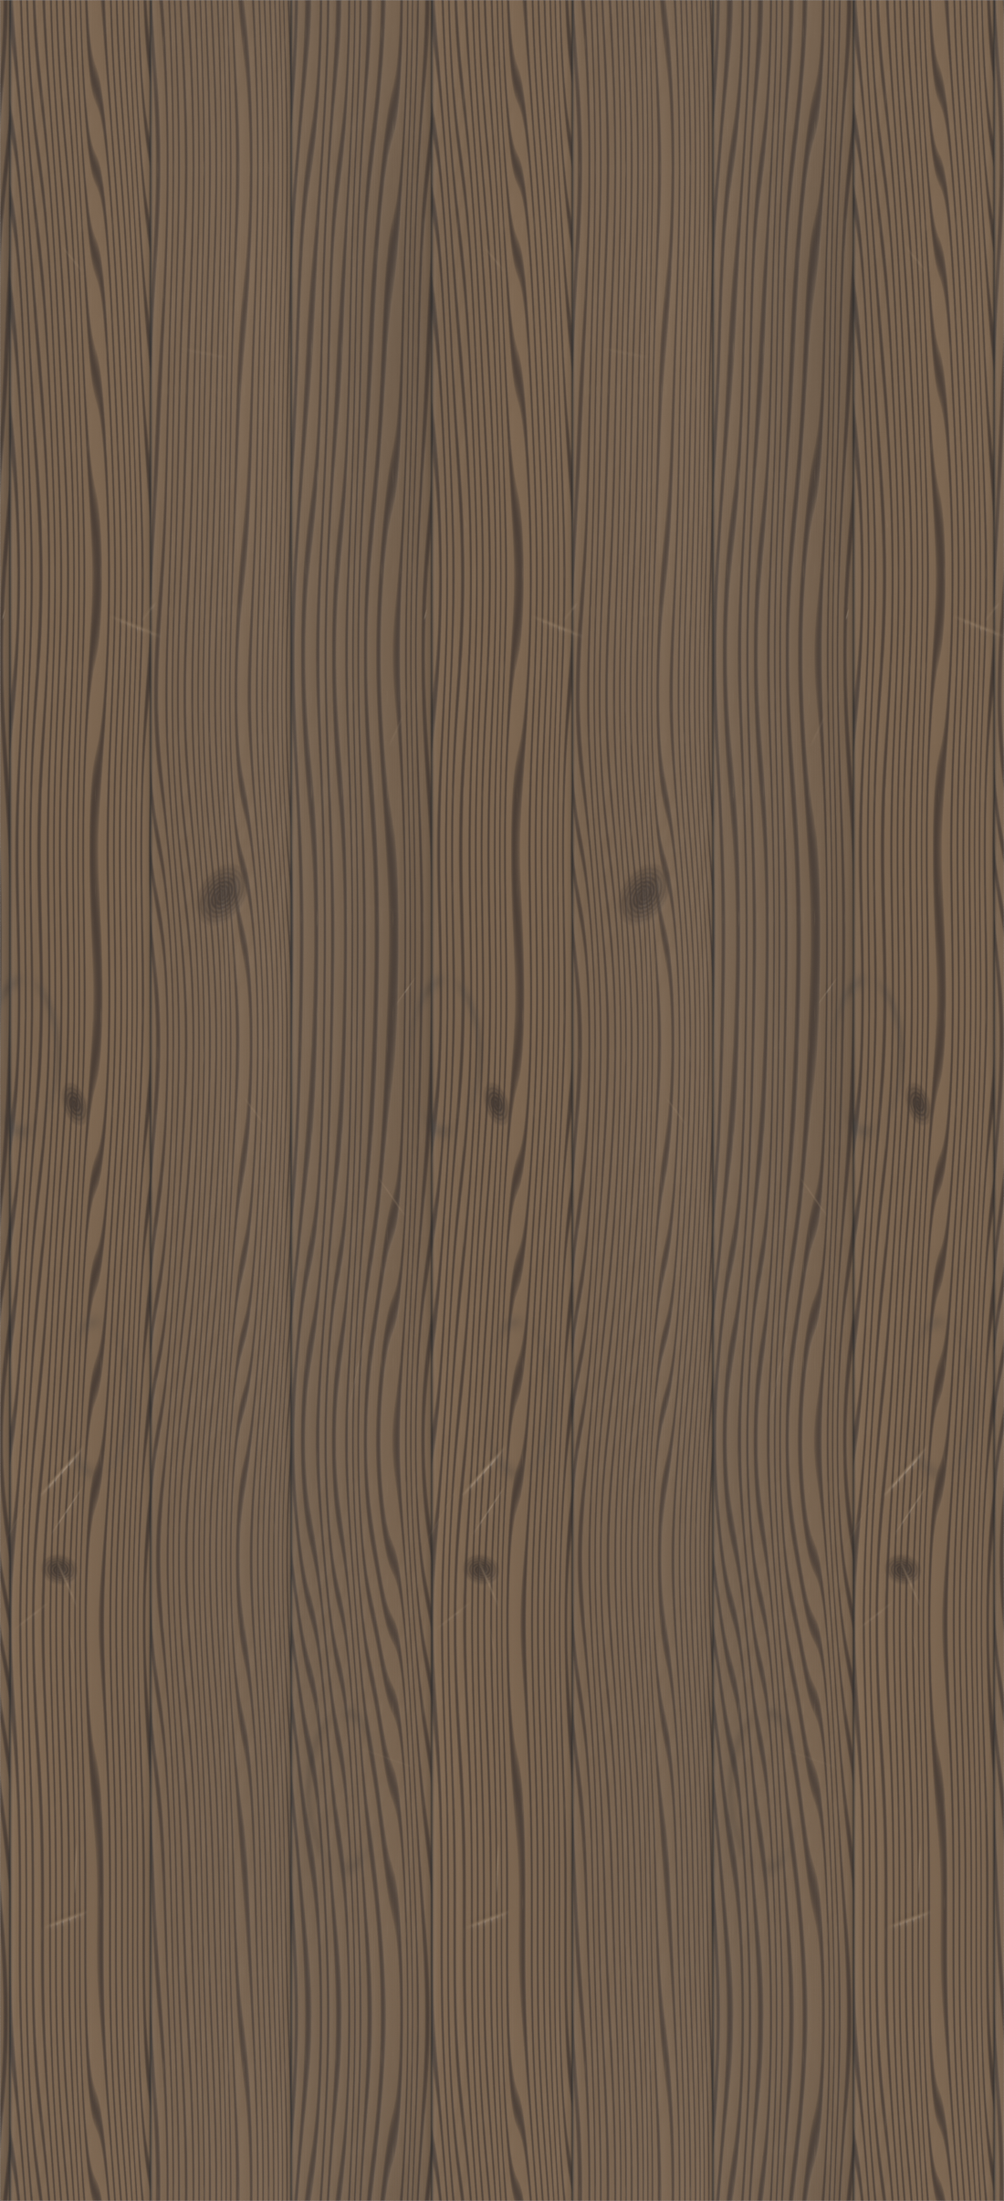
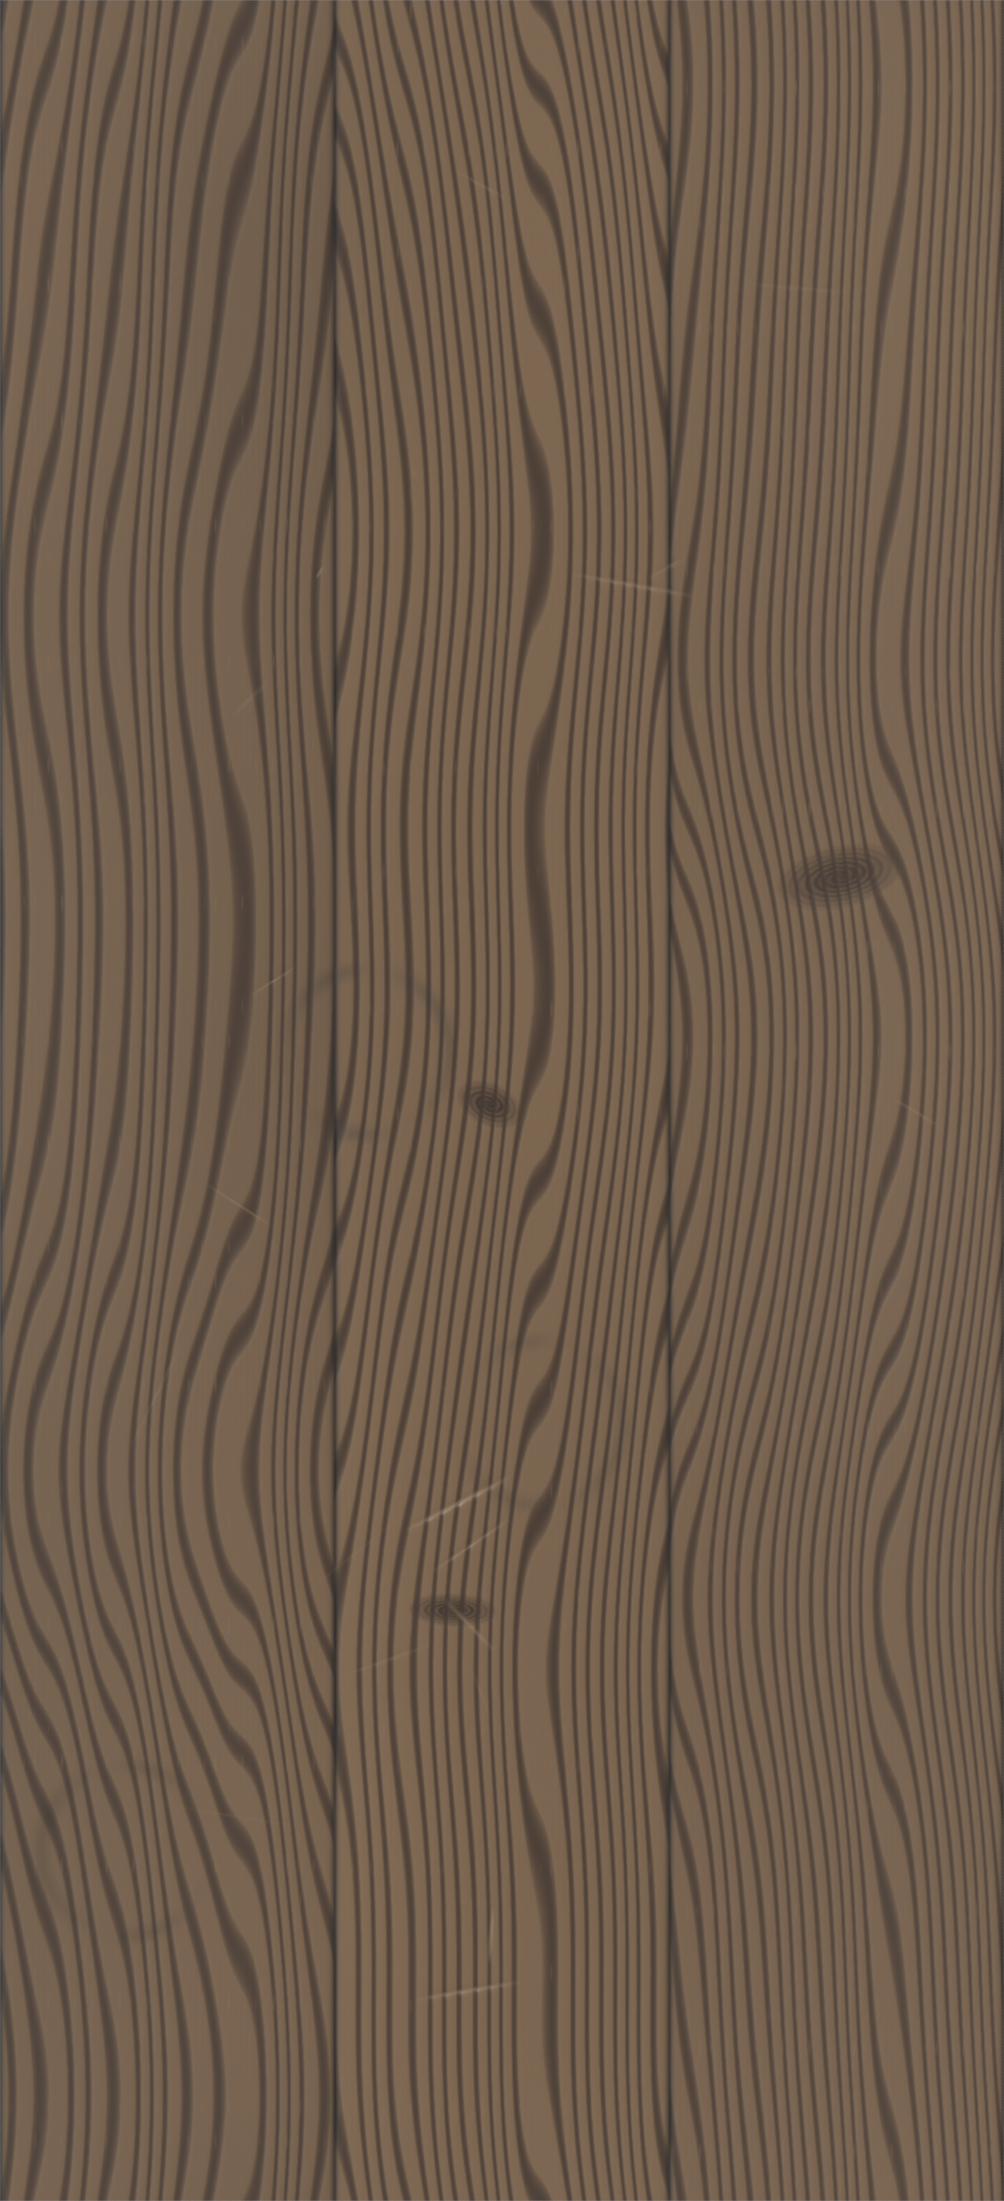
A feeling arriving is an object landing, not a word in blue script
The emotional row's first sentence is that a gesture on one device becomes a
sensation on the other. 08_state_propagating showed a message that happened to
say "hold". Three separate mechanisms, all found:

**Two of the three things the far phone sent arrived as blank paper.** A feeling
was being wrapped in FoldedNote, whose resting face is fold frame 0000 — a
square-cornered blank cream slab — and nothing ever taps it open, so the row was
that slab for ever. A thrown object is not a folded note; there is nothing to
unfold. It is excluded now, asked of the registry rather than of a list.

**The one that did paint read as a message.** The feeling's name was set in the
author's own hand at 19 points, which is byte for byte the call the message body
makes, in the same ink, on the same lined stock with the same tear and the same
timestamp under it. The object is the row now and the word is a caption under it
in the small hand.

**And the object was a smudge beside it.** `size` was the size of the square the
thing was rendered into, not of the thing: a candle's ink fills 27 per cent of its
frame and a paper crane's 85, so one number asked for a candle 29 points tall and
a crane 82. pack_assets measures every object's ink at pack time — 26 of them,
18 per cent at the tightest and 85 at the widest — and `size` means the object.

**Also: a pending check was destroying evidence of a run that happened.** The
[…]

diff --git a/app/test/reliability_test.dart b/app/test/reliability_test.dart
@@ -31,6 +31,21 @@ class Capability {
   Map<String, dynamic> toJson() => {'ok': ok, 'detail': detail};
 }
 
+/// Whether both daemons are actually answering, rather than whether they once wrote an address.
+Future<bool> _nodesAnswering() async {
+  for (final n in const ['a', 'b']) {
+    if (!await File('../toolchain/ts/$n/address').exists()) return false;
+    try {
+      final r = await Process.run('../toolchain/ts/bin/tailscale',
+          ['--socket=../toolchain/ts/$n/tailscaled.sock', 'status', '--json']);
+      if (r.exitCode != 0) return false;
+    } catch (_) {
+      return false;
+    }
+  }
+  return true;
+}
+
 void main() {
   test('reliability report over the local transport', () async {
     final dir = await Directory.systemTemp.createTemp('reliability-');
@@ -231,6 +246,13 @@ void main() {
     };
     final out = File('../evidence/reliability.json');
     await out.parent.create(recursive: true);
+    // The local run's results are its own, but the tailnet block is not its to delete. It was
+    // deleting it: this half rewrites the file whole, so a tailnet run that had happened was gone
+    // before the tailnet half of this file got to decide whether to keep it.
+    if (await out.exists()) {
+      final was = jsonDecode(await out.readAsString());
+      if (was is Map && was['tailscale'] != null) report['tailscale'] = was['tailscale'];
+    }
     await out.writeAsString(const JsonEncoder.withIndent(' ').convert(report));
 
     await clientT.stop();
@@ -270,13 +292,34 @@ void main() {
       await report.writeAsString(const JsonEncoder.withIndent(' ').convert(existing));
     }
 
-    if (!await a.exists() || !await b.exists()) {
+    // Asked of the daemon, not of the filesystem: the address files outlive the daemons, and a
+    // node that is not answering is the same situation as a node that was never brought up.
+    if (!await _nodesAnswering()) {
+      // A pending check does not overwrite a run that happened; see the same guard in
+      // coldstart_test.dart. This session's real tailnet run was destroyed by one once.
+      if (await report.exists()) {
+        final was = jsonDecode(await report.readAsString());
+        if (was is Map && (was['tailscale'] as Map?)?['status'] == 'ran') {
+          (was['tailscale'] as Map)['later_check'] = {
+            'status': 'pending',
+            'why': 'the nodes were not answering when this was re-run; the run above stands',
+            'checked_at': DateTime.now().toUtc().toIso8601String(),
+          };
+          await report.writeAsString(const JsonEncoder.withIndent(' ').convert(was));
+          return;
+        }
+      }
+      final everBroughtUp = await a.exists() && await b.exists();
       await record({
         'status': 'pending',
-        'why': 'no TS_AUTHKEY was supplied in this session, so the two tailnet nodes were never '
-            'brought up and nothing over the tailnet has been checked',
-        'how_to_run': 'TS_AUTHKEY=tskey-auth-… bash tools/tailscale/up.sh, then flutter test '
-            'test/reliability_test.dart',
+        'why': everBroughtUp
+            ? 'the two tailnet nodes were brought up in this session and are not answering now — '
+                'a daemon that has been reaped, or a container that restarted under them. Their '
+                'state survives in toolchain/ts/{a,b}/state, so they come back without a new key.'
+            : 'no TS_AUTHKEY was supplied in this session, so the two tailnet nodes were never '
+                'brought up and nothing over the tailnet has been checked',
+        'how_to_run': 'bash tools/tailscale/up.sh (TS_AUTHKEY only if the state directories are '
+            'gone too), then flutter test test/reliability_test.dart',
         'what_is_still_checked': 'the protocol, the pairing and every fault run above, over the '
             'local transport — the two transports differ only in which address the host binds',
         'checked_at': DateTime.now().toUtc().toIso8601String(),

diff --git a/app/test/coldstart_test.dart b/app/test/coldstart_test.dart
@@ -49,16 +49,57 @@ Map<String, dynamic> _self(Map<String, dynamic> status) {
   };
 }
 
+/// Whether both daemons are actually answering, rather than whether they once wrote an address.
+Future<bool> _nodesAnswering() async {
+  for (final n in const ['a', 'b']) {
+    if (!await File('../toolchain/ts/$n/address').exists()) return false;
+    try {
+      final r = await Process.run('../toolchain/ts/bin/tailscale',
+          ['--socket=../toolchain/ts/$n/tailscaled.sock', 'status', '--json']);
+      if (r.exitCode != 0) return false;
+    } catch (_) {
+      return false;
+    }
+  }
+  return true;
+}
+
 void main() {
   test('cold start over the tailnet: four events, both directions, both spines agreeing', () async {
     final aFile = File('../toolchain/ts/a/address');
     final bFile = File('../toolchain/ts/b/address');
-    if (!await aFile.exists() || !await bFile.exists()) {
-      await File(_out).writeAsString(const JsonEncoder.withIndent(' ').convert({
+    // Asked of the daemon, not of the filesystem. The address files survive a container restart
+    // and the daemons do not, and a test that then fails on `would not report its status` reads as
+    // a defect in the app. The brief's rule for a tailnet that is not there is pending: not
+    // passing, not failing.
+    if (!await _nodesAnswering()) {
+      // A pending check does not overwrite a run that happened.
+      //
+      // It did once, and the loss was total: the tailnet cold start of this very session — two
+      // node keys, four events crossing in both directions, a direct path — was replaced by a
+      // sentence saying the nodes were not up, because a daemon had been reaped between the run
+      // and the next `flutter test`. Evidence of something that occurred is not invalidated by a
+      // later session being unable to repeat it; it is dated and kept.
+      final out = File(_out);
+      if (await out.exists()) {
+        final was = jsonDecode(await out.readAsString());
+        if (was is Map && was['status'] == 'ran') {
+          was['later_check'] = {
+            'status': 'pending',
+            'why': 'the nodes were not answering when this was re-run; the run above stands and '
+                'is dated',
+            'checked_at': DateTime.now().toUtc().toIso8601String(),
+          };
+          await out.writeAsString(const JsonEncoder.withIndent(' ').convert(was));
+          return;
+        }
+      }
+      await out.writeAsString(const JsonEncoder.withIndent(' ').convert({
         'transport': 'tailscale',
         'status': 'pending',
-        'why': 'the two tailnet nodes were not up in this session, so there was nothing to start '
-            'cold against. tools/tailscale/up.sh brings them up.',
+        'why': 'the two tailnet nodes were not answering in this session, so there was nothing '
+            'to start cold against. Their state survives in toolchain/ts/{a,b}/state, so '
+            'tools/tailscale/up.sh brings them back without a new key.',
       }));
       return;
     }

diff --git a/app/lib/material/library.dart b/app/lib/material/library.dart
@@ -2,7 +2,7 @@
 // builds the app's copy; this reads it once at startup so the app never guesses at a file name.
 import 'dart:convert';
 
-import 'package:flutter/painting.dart' show Size;
+import 'package:flutter/painting.dart' show Rect, Size;
 import 'package:flutter/services.dart' show AssetBundle, rootBundle;
 
 class LibraryEntry {
@@ -23,7 +23,7 @@ class LibraryEntry {
 
 class MaterialLibrary {
   MaterialLibrary._(this.paper, this.tears, this.objects, this.bits, this.shell, this.folds,
-      this.foldSize, this.fonts, this.sounds, this.shadowFrame);
+      this.foldSize, this.objectInk, this.fonts, this.sounds, this.shadowFrame);
 
   final List<LibraryEntry> paper;
   final List<LibraryEntry> tears;
@@ -36,6 +36,13 @@ class MaterialLibrary {
 
   /// sequence name -> the shape one frame is, so a note can take up its room before it has one
   final Map<String, Size> foldSize;
+
+  /// object id -> the box its ink actually fills, as fractions of its own frame.
+  ///
+  /// Every object is rendered into the same square, and how much of it the thing fills is a
+  /// property of the thing: a candle's ink is 27 per cent of its frame and a paper crane's is 85.
+  /// Without this, `size: 96` meant a different physical size for every feeling.
+  final Map<String, Rect> objectInk;
   final List<String> fonts;
   final List<String> sounds;
 
@@ -86,6 +93,18 @@ class MaterialLibrary {
         }
       });
     }
+    final objectInk = <String, Rect>{};
+    final oi = j['object_ink'];
+    if (oi is Map) {
+      oi.forEach((k, v) {
+        if (v is List && v.length == 4) {
+          objectInk[k as String] = Rect.fromLTRB(
+            (v[0] as num).toDouble(), (v[1] as num).toDouble(),
+            (v[2] as num).toDouble(), (v[3] as num).toDouble(),
+          );
+        }
+      });
+    }
     return _instance = MaterialLibrary._(
       family('paper'),
       family('tears'),
@@ -94,6 +113,7 @@ class MaterialLibrary {
       family('shell'),
       folds,
       foldSize,
+      objectInk,
       ((j['fonts'] as List?) ?? const []).cast<String>(),
       ((j['sound'] as List?) ?? const []).cast<String>(),
       ((j['relief'] as Map?)?['shadow_frame'] as num?)?.toDouble() ?? 1.0,
@@ -180,6 +200,16 @@ class MaterialLibrary {
       objects.map((e) => e.id).where((id) => !id.contains('_shadow')).toList()..sort();
 
   bool hasObject(String id) => objects.any((e) => e.id == id);
+
+  /// How much the render has to be scaled for [size] to mean the object rather than its frame.
+  /// 1.0 when nothing is known about it, which is what it did before.
+  double inkScaleOf(String id) {
+    final box = objectInk[id];
+    if (box == null) return 1.0;
+    final fill = box.width > box.height ? box.width : box.height;
+    if (fill <= 0.05) return 1.0;
+    return (1.0 / fill).clamp(1.0, 3.4);
+  }
 
   bool hasObjectShadow(String id, {bool dusk = false}) =>
       objects.any((e) => e.id == '${id}_shadow${dusk ? '_dusk' : ''}');

diff --git a/app/lib/regions/chat/renderers.dart b/app/lib/regions/chat/renderers.dart
@@ -70,22 +70,32 @@ Widget _stripWave(NoteContext c) => VoiceNotePlayer(
       waveform: (c.payload['waveform'] as List).map((x) => (x as num).toDouble()).toList(),
     );
 
-Widget _objectLanding(NoteContext c) {
+/// A feeling that arrived: the object itself, at the size a thing is, with its name underneath in
+/// the small hand a caption is written in.
+///
+/// It used to be the object at 96 points beside its name set in the author's own hand at 19 —
+/// which is byte for byte the call [_written] makes for a message body, in the same ink, on the
+/// same lined stock with the same tear and the same timestamp under it. A reader saw a message
+/// that happened to say "hold". The row's whole job is that a gesture on one device arrives as a
+/// sensation rather than as a sentence, so the object is now the row and the word is a caption.
+Widget objectLanding(NoteContext c) {
   final f = c.registry.byId(c.payload['feeling_id'] as String? ?? '');
-  return Row(
+  if (f == null) return const SizedBox.shrink();
+  final intensity = (c.payload['intensity'] as num?)?.toDouble() ?? 0.7;
+  return Column(
+    crossAxisAlignment: CrossAxisAlignment.center,
     mainAxisSize: MainAxisSize.min,
     children: [
-      if (f != null)
-        FeelingObject(
-          feeling: f,
-          size: 96,
-          intensity: (c.payload['intensity'] as num?)?.toDouble() ?? 0.7,
-          // this one *is* the note: a drawn feeling is drawn on the sheet it arrived on, and a
-          // scrap laid over it would be a sticker on a letter
-          onPaper: false,
-        ),
-      const SizedBox(width: 10),
-      Flexible(child: Written(f?.name ?? '', by: c.item.author, size: 19)),
+      FeelingObject(
+        feeling: f,
+        size: 128,
+        intensity: intensity,
+        // this one *is* the note: a drawn feeling is drawn on the sheet it arrived on, and a
+        // scrap laid over it would be a sticker on a letter
+        onPaper: false,
+      ),
+      const SizedBox(height: 4),
+      Text(f.name, style: Hands.margin(size: 13), textAlign: TextAlign.center),
     ],
   );
 }
@@ -105,7 +115,7 @@ const Map<String, ThreadBody> kThreadRenderers = {
   'print': _print,
   'print_tab': _printTab,
   'strip_wave': _stripWave,
-  'object_landing': _objectLanding,
+  'object_landing': objectLanding,
   'stuck_object': _neverARow,
   'edit_mark': _neverARow,
   'stub': _neverARow,

diff --git a/app/lib/regions/chat/note.dart b/app/lib/regions/chat/note.dart
@@ -72,7 +72,13 @@ class Note extends StatelessWidget {
     // folded for longer than one frame: opening the thread writes a read marker over everything
     // in it, the note rebuilds unfolded, and it goes from folded to flat with nothing in between.
     // Which is why the unfolding clip was two hundred and forty identical frames.
-    final folded = !mine && (e.seq ?? 0) > unreadFrom;
+    // A thrown object is not a folded note. A feeling arrives by being thrown across the desk and
+    // landing on it; there is nothing to unfold, and folding it meant the row rendered as fold
+    // frame 0000 — a square-cornered blank cream slab — for as long as it was unread, which on
+    // 08_state_propagating was for ever, because nothing ever taps it. Two of the three things the
+    // far phone sent arrived as blank paper.
+    final thrown = kThreadRenderers[kEventTypeById[item.type]?.renderer] == objectLanding;
+    final folded = !mine && !thrown && (e.seq ?? 0) > unreadFrom;
 
     final piece = PaperPiece(
       stockId: stock,

diff --git a/app/lib/material/objects.dart b/app/lib/material/objects.dart
@@ -48,8 +48,13 @@ class FeelingObject extends StatelessWidget {
   @override
   Widget build(BuildContext context) {
     final dusk = Light.of(context) == LightCondition.dusk;
-    final scale = 0.88 + 0.24 * intensity.clamp(0.0, 1.0);
     final id = feeling.object;
+    // `size` is the size of the object, not of the square it was rendered into. A candle fills 27
+    // per cent of its frame and a paper crane 85, so before this the same number asked for a
+    // candle 29 points tall and a crane 82 — and the small ones read as a smudge beside their own
+    // name. tools/pack_assets.py measures each one's ink at pack time.
+    final ink = MaterialLibrary.loaded ? MaterialLibrary.instance.inkScaleOf(id) : 1.0;
+    final scale = (0.88 + 0.24 * intensity.clamp(0.0, 1.0)) * ink;
 
     // Some feelings are not things. A sun scribbled at the top of a page, a moon on the corner,
     // rain, a tongue stuck out — those are marks somebody made, and rendering them as objects

diff --git a/tools/pack_assets.py b/tools/pack_assets.py
@@ -244,6 +244,43 @@ def _fold_band(paths):
     return (left, right), rows
 
 
+def measure_object_ink(verbose=True):
+    """The opaque bounding box of each packed object, as fractions of its frame."""
+    import numpy as np
+    from PIL import Image
+
+    out = {}
+    d = os.path.join(DST, "objects")
+    if not os.path.isdir(d):
+        return out
+    for fn in sorted(os.listdir(d)):
+        if not fn.endswith(".webp") or "_shadow" in fn:
+            continue
+        path = os.path.join(d, fn)
+        with Image.open(path) as im:
+            if im.mode not in ("RGBA", "LA"):
+                continue
+            a = np.asarray(im.convert("RGBA"))[..., 3]
+        rows = np.where(a.max(axis=1) > 24)[0]
+        cols = np.where(a.max(axis=0) > 24)[0]
+        if not len(rows) or not len(cols):
+            continue
+        h, w = a.shape
+        out[os.path.splitext(fn)[0]] = [
+            round(float(cols.min()) / w, 5),
+            round(float(rows.min()) / h, 5),
+            round(float(cols.max() + 1) / w, 5),
+            round(float(rows.max() + 1) / h, 5),
+        ]
+    if verbose and out:
+        widest = max(out.items(), key=lambda kv: kv[1][2] - kv[1][0])
+        tightest = min(out.items(), key=lambda kv: kv[1][2] - kv[1][0])
+        print(f"objects: {len(out)} measured, ink fills "
+              f"{tightest[1][2] - tightest[1][0]:.0%} of its frame at {tightest[0]} and "
+              f"{widest[1][2] - widest[1][0]:.0%} at {widest[0]}")
+    return out
+
+
 def pack_folds(index, verbose=True):
     src_dir = os.path.join(SRC, "folds")
     if not os.path.isdir(src_dir):
@@ -356,6 +393,15 @@ def main(argv=None):
         # what the app has to scale the packed shadow by, which is the margin packing kept rather
         # than the frame the renderer used
         index["relief"]["shadow_frame"] = SHADOW_MARGIN
+    # How much of its own frame each feeling object actually fills.
+    #
+    # Every object render is a 420x420 frame with the thing somewhere inside it, and how much of
+    # the frame the thing fills is a property of the thing: a candle's ink is 27% of its frame,
+    # a paper crane's is 85%. The app asked for `size: 96` and got a candle 29 points tall beside
+    # a crane 82 points tall, so `size` meant a different physical size for every feeling and the
+    # smaller ones read as a smudge beside their own name. This is the number that makes `size`
+    # mean the object.
+    index["object_ink"] = measure_object_ink()
     pack_folds(index)
     copy_flat("fonts", index, exts=(".ttf",))
     copy_flat("sound", index, exts=(".ogg",))

diff --git a/blender/shell/desk.py b/blender/shell/desk.py
@@ -261,14 +261,35 @@ def build_top(seed, w, h, tmp):
     bpy.context.scene.collection.objects.link(obj)
     obj.scale = (WIDTH_M, HEIGHT_M, 1.0)
     bpy.context.view_layer.objects.active = obj
+    # Selected, not merely active. transform_apply acts on selected_editable_objects, and an object
+    # made with bpy.data.objects.new() and linked into a collection is active and *not* selected —
+    # so the operator returned {'CANCELLED'}, the scale stayed on the object, and the vertices below
+    # were still the unit grid's +/-0.5 rather than metres. Dividing +/-0.5 by 0.42 gave a u span of
+    # 2.381 against a texture set to REPEAT, so the whole three-plank desk was tiled two and a third
+    # times across its own top: a tiled repeating texture, which the brief names as a failure of the
+    # entire visual concept. The generator was always right; one unselected object undid it.
+    obj.select_set(True)
     bpy.ops.object.transform_apply(location=False, rotation=False, scale=True)
     for p in mesh.polygons:
         p.use_smooth = True
     mesh.uv_layers.new(name="UVMap")
     uv = mesh.uv_layers[0]
+    us, vs = [], []
     for loop in mesh.loops:
         co = mesh.vertices[loop.vertex_index].co
-        uv.data[loop.index].uv = (co.x / WIDTH_M + 0.5, co.y / HEIGHT_M + 0.5)
+        u, v = co.x / WIDTH_M + 0.5, co.y / HEIGHT_M + 0.5
+        uv.data[loop.index].uv = (u, v)
+        us.append(u)
+        vs.append(v)
+    # The desk covers its own map exactly once, in both directions, or it is tiled. Checked here
+    # rather than found later in a photograph of it.
+    for name, vals in (("u", us), ("v", vs)):
+        span = max(vals) - min(vals)
+        if abs(span - 1.0) > 1e-6:
+            raise SystemExit(
+                f"desk.py: the {name} span is {span:.4f}, not 1.0 — the top is tiled "
+                f"{span:.3f} times across itself rather than mapped once"
+            )
 
     mat = bpy.data.materials.new("desk_wood")
     mat.use_nodes = True
